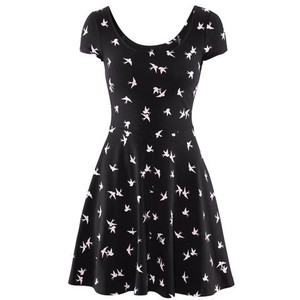
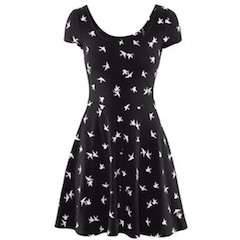
moved to factory, added subtotal and total, removed extra images, resized all images

diff --git a/public/index.html b/public/index.html
@@ -10,79 +10,74 @@
     <script src="bower_components/angular/angular.js"></script>
     <script src="bower_components/angular-resource/angular-resource.js"></script>
     <script src="js/app.js"></script>
-    <script src="js/services.js"></script>
     <script src="js/shopController.js"></script>
+    <script src="js/shopFactory.js"></script>
   </head>
+
   <body ng-controller="ShopController as ctrl">
-    <section class="container">
+    <div class="container">
       <nav class="navbar navbar-default">
         <div class="container-fluid">
           <div class="navbar-header">
             <a id="brand" class="navbar-brand" href="/">Angular Shop</a>
           </div>
           <ul class ="nav navbar-nav navbar-right">
-          <li class="pull-right">
-            <a><span id="basket-header-total" class="badge">Basket Total : {{ctrl.products.basketTotal| currency:"£"}}</span></a>
-          </li>
-          <li class="pull-right">
-            <a id="search-box">Search: <input ng-model="query" class="input-box"></a>
-          </li>
-        </div>
-      </nav>
-      <div>
-        <!-- <section class="col-sm-8" id="error-message" ng-show="ctrl.errorMessage" class="ng-hide">
-          <div class="alert alert-danger alert-dismissible" role="alert">
-            <button type="button" ng-click="ctrl.clearErrorMessage()" class="close" aria-label="Close"><span aria-hidden="true">&times;</span></button>
-            <p>{{ctrl.errorMessage}}</p>
-          </div>
-        </section> -->
-        <section class="col-sm-8 no-padding-left">
-          <ul class="no-padding-left">
-            <li ng-repeat="item in ctrl.products.productList| filter:query" class="col-sm-6 col-lg-6 col-md-6 item-panel">
-              <a class="thumbnail" ng-click="ctrl.products.addItemToBasket(item)">
-                <img ng-src="{{item.images[0]}}">
-                <div class="shop-item caption">
-                  <strong>{{item.name}}<span class="pull-right">{{item.price | currency:"£"}}</span></strong>
-                  <p>{{item.category}}<span class="pull-right">{{item.quantity}} available</span></p>
-                </div>
-              </a>
+            <li class="pull-right">
+              <a><span id="basket-header-total" class="badge">Basket Total : {{ctrl.products.basketTotal| currency:"£"}}</span></a>
+            </li>
+            <li class="pull-right">
+              <a id="search-box">Search: <input ng-model="query" class="input-box"></a>
             </li>
           </ul>
-        </section>
-        <section id="shopping-basket-container" ng-show="ctrl.products.shoppingBasketVisible" class="ng-hide col-sm-4">
-          <div>
-            <h3 >Shopping Basket</h3>
-            <ul id="shopping-basket">
-              <li class="divider"></li>
-              <li ng-repeat="(index, basketItem) in ctrl.products.shoppingBasket track by $index">
-                <p class="basket-item" id="basket-item-{{index}}">{{basketItem.name}}</p><p class="pull-right basket-price">{{basketItem.price | currency:"£"}}</p><a ng-click="ctrl.products.removeItemFromBasket(basketItem)"class="remove-basket-item pull-right">remove</a>
-              </li>
-            </ul>
-            <div>
-              <ul class="vouchers">
-                <li>
-                  <a class="btn" id="five-pound-voucher" ng-class="ctrl.products.fivePoundDiscount ? 'btn-success' : 'btn-danger'" ng-click="ctrl.products.applyFivePoundDiscount()">£5 off voucher
-                  </a>
-                </li>
-                <li>
-                  <a class="btn" id="ten-pound-voucher" ng-class="ctrl.products.tenPoundDiscount ? 'btn-success' : 'btn-danger'" ng-click="ctrl.products.applyTenPoundDiscount()">£10 off voucher
-                  </a>
-                </li>
-                <li>
-                  <a class="btn" id="fifteen-pound-voucher" ng-class="ctrl.products.fifteenPoundDiscount ? 'btn-success' : 'btn-danger'" ng-click="ctrl.products.applyFifteenPoundDiscount()">£15 off voucher
-                  </a>
-                </li>
-                <li>
-                  <p id="sub-total">Sub Total: {{ctrl.products.subTotal() | currency:"£"}}</p>
-                </li>
-                <li>
-                  <p id="basket-total">Total : {{ctrl.products.basketTotal| currency:"£"}}</p>
-                </li>
-              </ul>
-            </div>
+        </div>
+      </nav>
+    <div>
+  
+    <div class="categories container" ng-repeat="(header,category) in ctrl.products.productList">
+      <h3>{{header}}</h3>
+      <div class="row">
+        <div class="Items" ng-repeat="item in category">
+          <div class="col-md-6 products">
+              <img ng-src="{{item.image}}">
+              <div class="shop-item caption">
+                <strong>{{item.name}}<span class="pull-right">{{item.price | currency:"£"}}</span></strong>
+                <p>{{item.category}}<span class="pull-right">{{item.quantity}} available</span></p>
+              </div>
           </div>
-        </section>
+        </div>
       </div>
-    </section>
+    </div>
+
+    <div id="shopping-basket-container" ng-show="ctrl.products.shoppingBasketVisible" class="ng-hide col-sm-4">
+      <h3 >Shopping Basket</h3>
+      <ul id="shopping-basket">
+        <li class="divider"></li>
+        <li ng-repeat="(index, basketItem) in ctrl.products.shoppingBasket track by $index">
+          <p class="basket-item" id="basket-item-{{index}}">{{basketItem.name}}</p><p class="pull-right basket-price">{{basketItem.price | currency:"£"}}</p><a ng-click="ctrl.products.removeItemFromBasket(basketItem)"class="remove-basket-item pull-right">remove</a>
+        </li>
+      </ul>
+      <div>
+        <ul class="vouchers">
+          <li>
+            <a class="btn" id="five-pound-voucher" ng-class="ctrl.products.fivePoundDiscount ? 'btn-success' : 'btn-danger'" ng-click="ctrl.products.applyFivePoundDiscount()">£5 off voucher
+            </a>
+          </li>
+          <li>
+            <a class="btn" id="ten-pound-voucher" ng-class="ctrl.products.tenPoundDiscount ? 'btn-success' : 'btn-danger'" ng-click="ctrl.products.applyTenPoundDiscount()">£10 off voucher
+            </a>
+          </li>
+          <li>
+            <a class="btn" id="fifteen-pound-voucher" ng-class="ctrl.products.fifteenPoundDiscount ? 'btn-success' : 'btn-danger'" ng-click="ctrl.products.applyFifteenPoundDiscount()">£15 off voucher
+            </a>
+          </li>
+          <li>
+            <p id="sub-total">Sub Total: {{ctrl.products.subTotal() | currency:"£"}}</p>
+          </li>
+          <li>
+            <p id="basket-total">Total : {{ctrl.products.basketTotal| currency:"£"}}</p>
+          </li>
+        </ul>
+      </div>
+    </div>
   </body>
 </html>

diff --git a/public/js/shopFactory.js b/public/js/shopFactory.js
@@ -1,0 +1,64 @@
+clothesShop.factory('Products', function(){
+  
+  var service = {};
+  var shoppingBasket = [];
+  var vouchers = [];
+
+  service.basketTotal = 0;
+  service.shoppingBasket = shoppingBasket;
+  service.shoppingBasketVisible = false;
+  service.fivePoundDiscout = false;
+  service.tenPoundDiscount = false;
+  service.fifteenPoundDiscount = false;
+
+  service.productList = {
+  "Womens Footwear": [{name: "Suede Shoes, Blue", price: 42.00, quantity: 4, category: "Womens Footwear", image: "images/blue-suede-shoes-2.jpg"},
+                      {name: "Almond Toe Court Shoes, Patent Black", price: 99.00, quantity: 5, category: "Womens Footwear", image: "images/almond-toe-court-shoes.jpeg"}],
+  "Mens Footwear":   [{name: "Leather Driver Saddle Loafers, Tan", price: 34.00, quantity: 12, category: "Mens Footwear", image: "images/leather-driver-saddle-loafers.jpg"},
+                      {name: "Flip Flops, Red", price: 19.00, quantity: 6, category: "Mens Footwear", image: "images/flip-flops.jpg"},
+                      {name: "Flip Flops, Blue", price: 19.00, quantity: 0, category: "Mens Footwear", image: "images/flip-flops-blue.jpg"}],
+  "Womens Casual":   [{name: "Gold Button Cardigan, Black", price: 167.00, quantity: 6, category: "Womens Casual", image: "images/gold-button-cardigan.jpg"},
+                      {name: "Cotton Shorts, Medium Red", price: 30.00, quantity: 5, category: "Womens Casual", image: "images/cotton-shorts-red.jpeg"}],
+  "Mens Casual":     [{name: "Fine Stripe Short Sleeve Shirt, Grey", price: 49.99, quantity: 9, category: "Mens Casual", image: "images/short-sleeve-shirt-grey.jpeg"},
+                      {name: "Fine Stripe Short Sleeve Shirt, Green", price: 39.99, quantity: 3, category: "Mens Casual", image: "images/short-sleeve-shirt-green.jpg"}],
+  "Womens Formal":   [{name: "Bird Print Dress, Black", price: 270.00, quantity: 10, category: "Womens Formal", image: "images/bird-print-dress-black.jpeg"},
+                      {name: "Mid Twist Cut-Out Dress, Pink", price: 540.00, quantity: 5, category: "Womens Formal", image: "images/cut-out-dress-pink.jpeg"}],
+  "Mens Formal":     [{name: "Sharkskin Waistcoat, Charcoal", price: 75.00, quantity: 6, category: "Mens Formal", image: "images/waistcoat-grey.jpg"},
+                      {name: "Lightweight Patch Pocket Blazer, Deer", price: 175.50, quantity: 1, category: "Mens Formal", image: "images/blazer-deer.jpeg"}]
+  };
+
+  service.getBasketTotal = function() {
+    var result = 0
+    for (var i = shoppingBasket.length - 1; i >= 0; i--) {
+      result += shoppingBasket[i].price;
+    };
+    result = parseFloat(result.toPrecision(12));
+    service.basketTotal = result;
+    return result;
+  };
+
+  service.subTotal = function() {
+    return service.shoppingBasket.map(function(item) {
+      return parseFloat(item.price);
+    }).reduce(function(previousValue, currentValue) {
+      return previousValue + currentValue;
+    },0);
+  };
+
+  service.addItemToBasket = function(item) {
+    shoppingBasket.push(item);
+    shoppingBasketVisible = true;
+    service.getBasketTotal();
+  };
+
+  service.removeItemFromBasket = function(item) {
+    shoppingBasket.pop(item);
+    service.getBasketTotal();
+  };
+
+  return service;
+});
+
+
+
+  

diff --git a/public/js/shopController.js b/public/js/shopController.js
@@ -1,6 +1,5 @@
-clothesShop.controller('ShopController', ['$scope', 'Products', function($scope, Products) {
+clothesShop.controller('ShopController', ['$http', '$scope', 'Products', function($http, $scope, Products) {  
   var self = this;
-  Products.getProducts().then(function(data){
-    $scope.productList = Products.getProducts();
-  });
+  
+  self.products = Products;
 }]);
